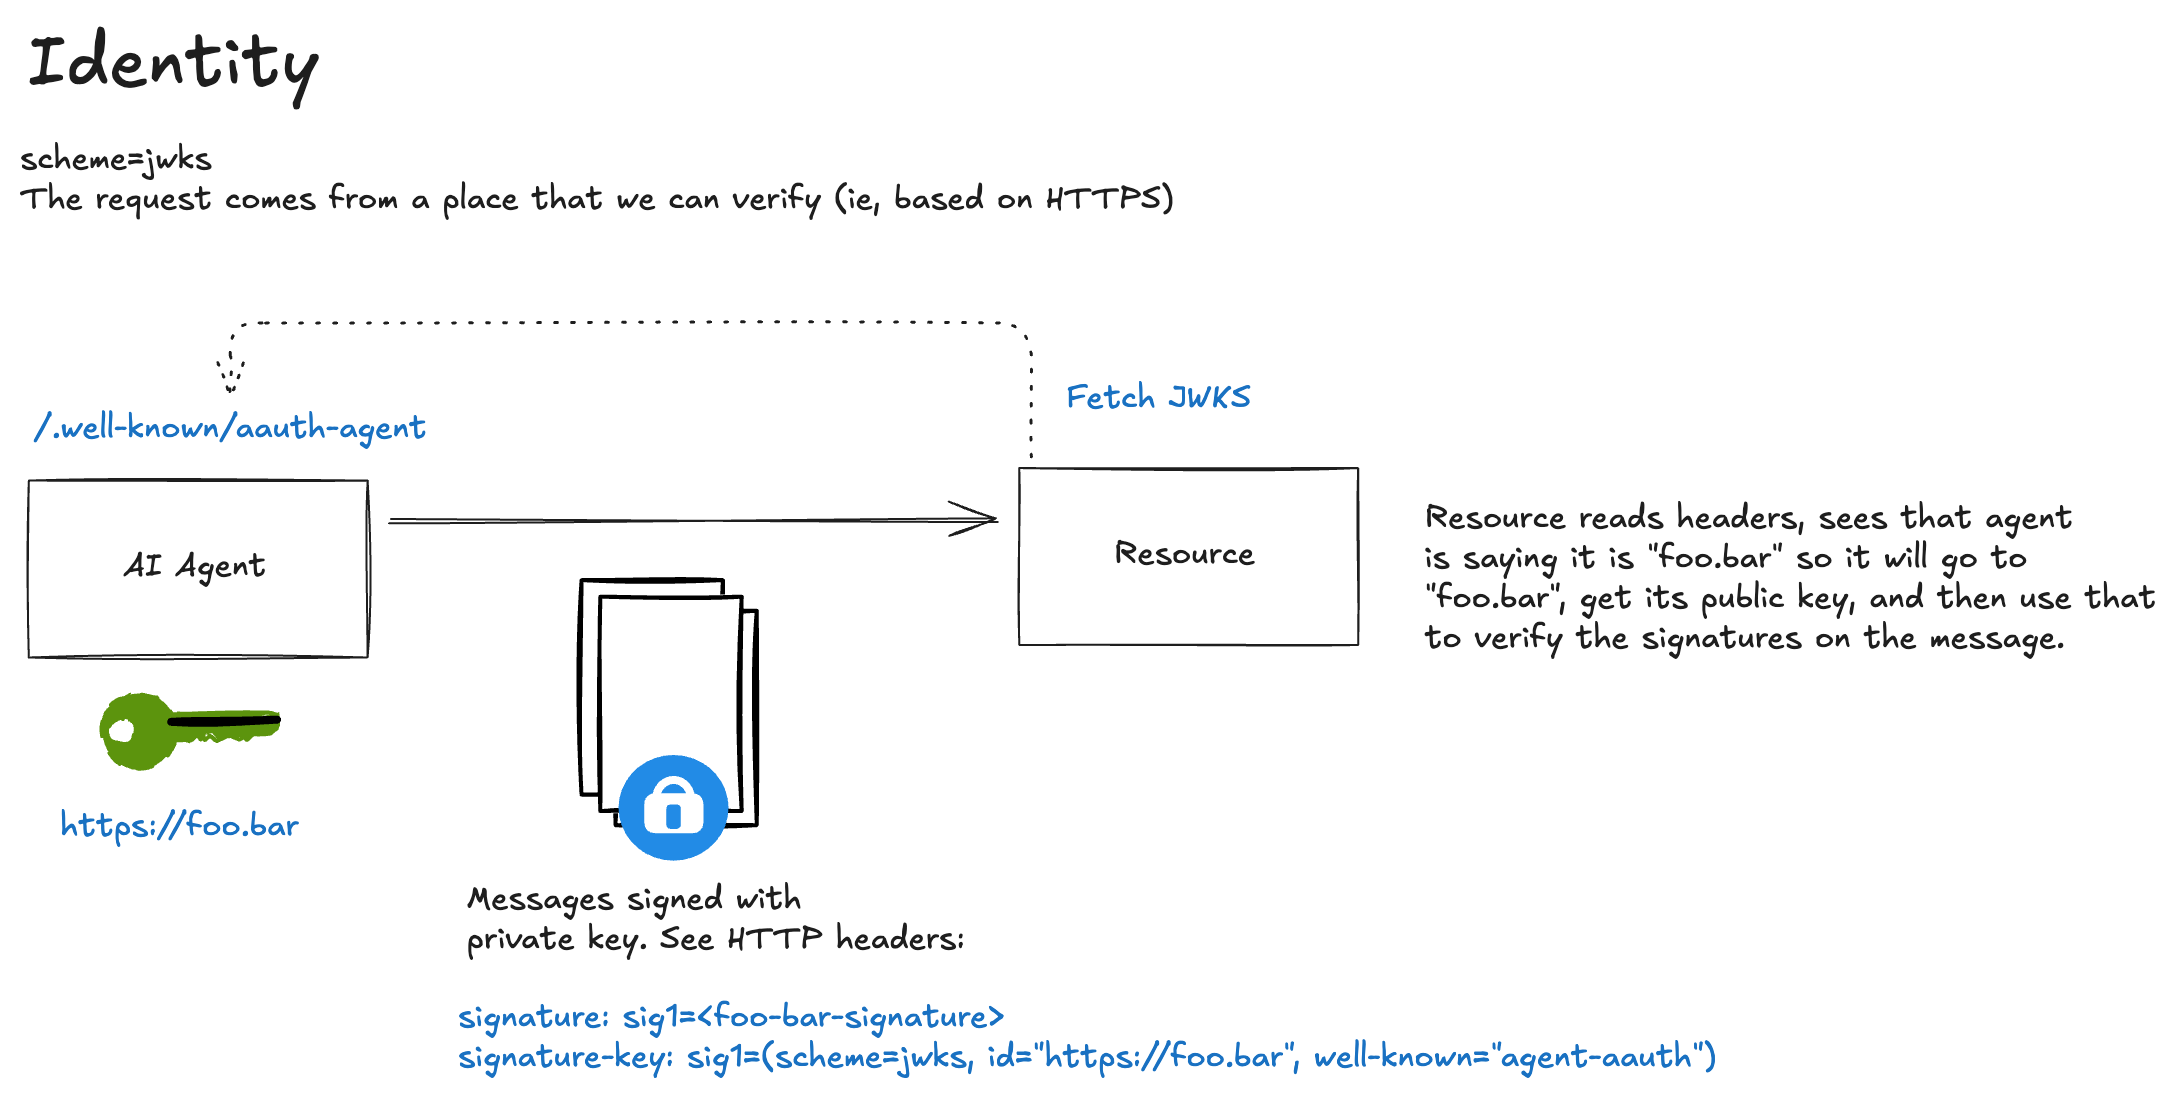
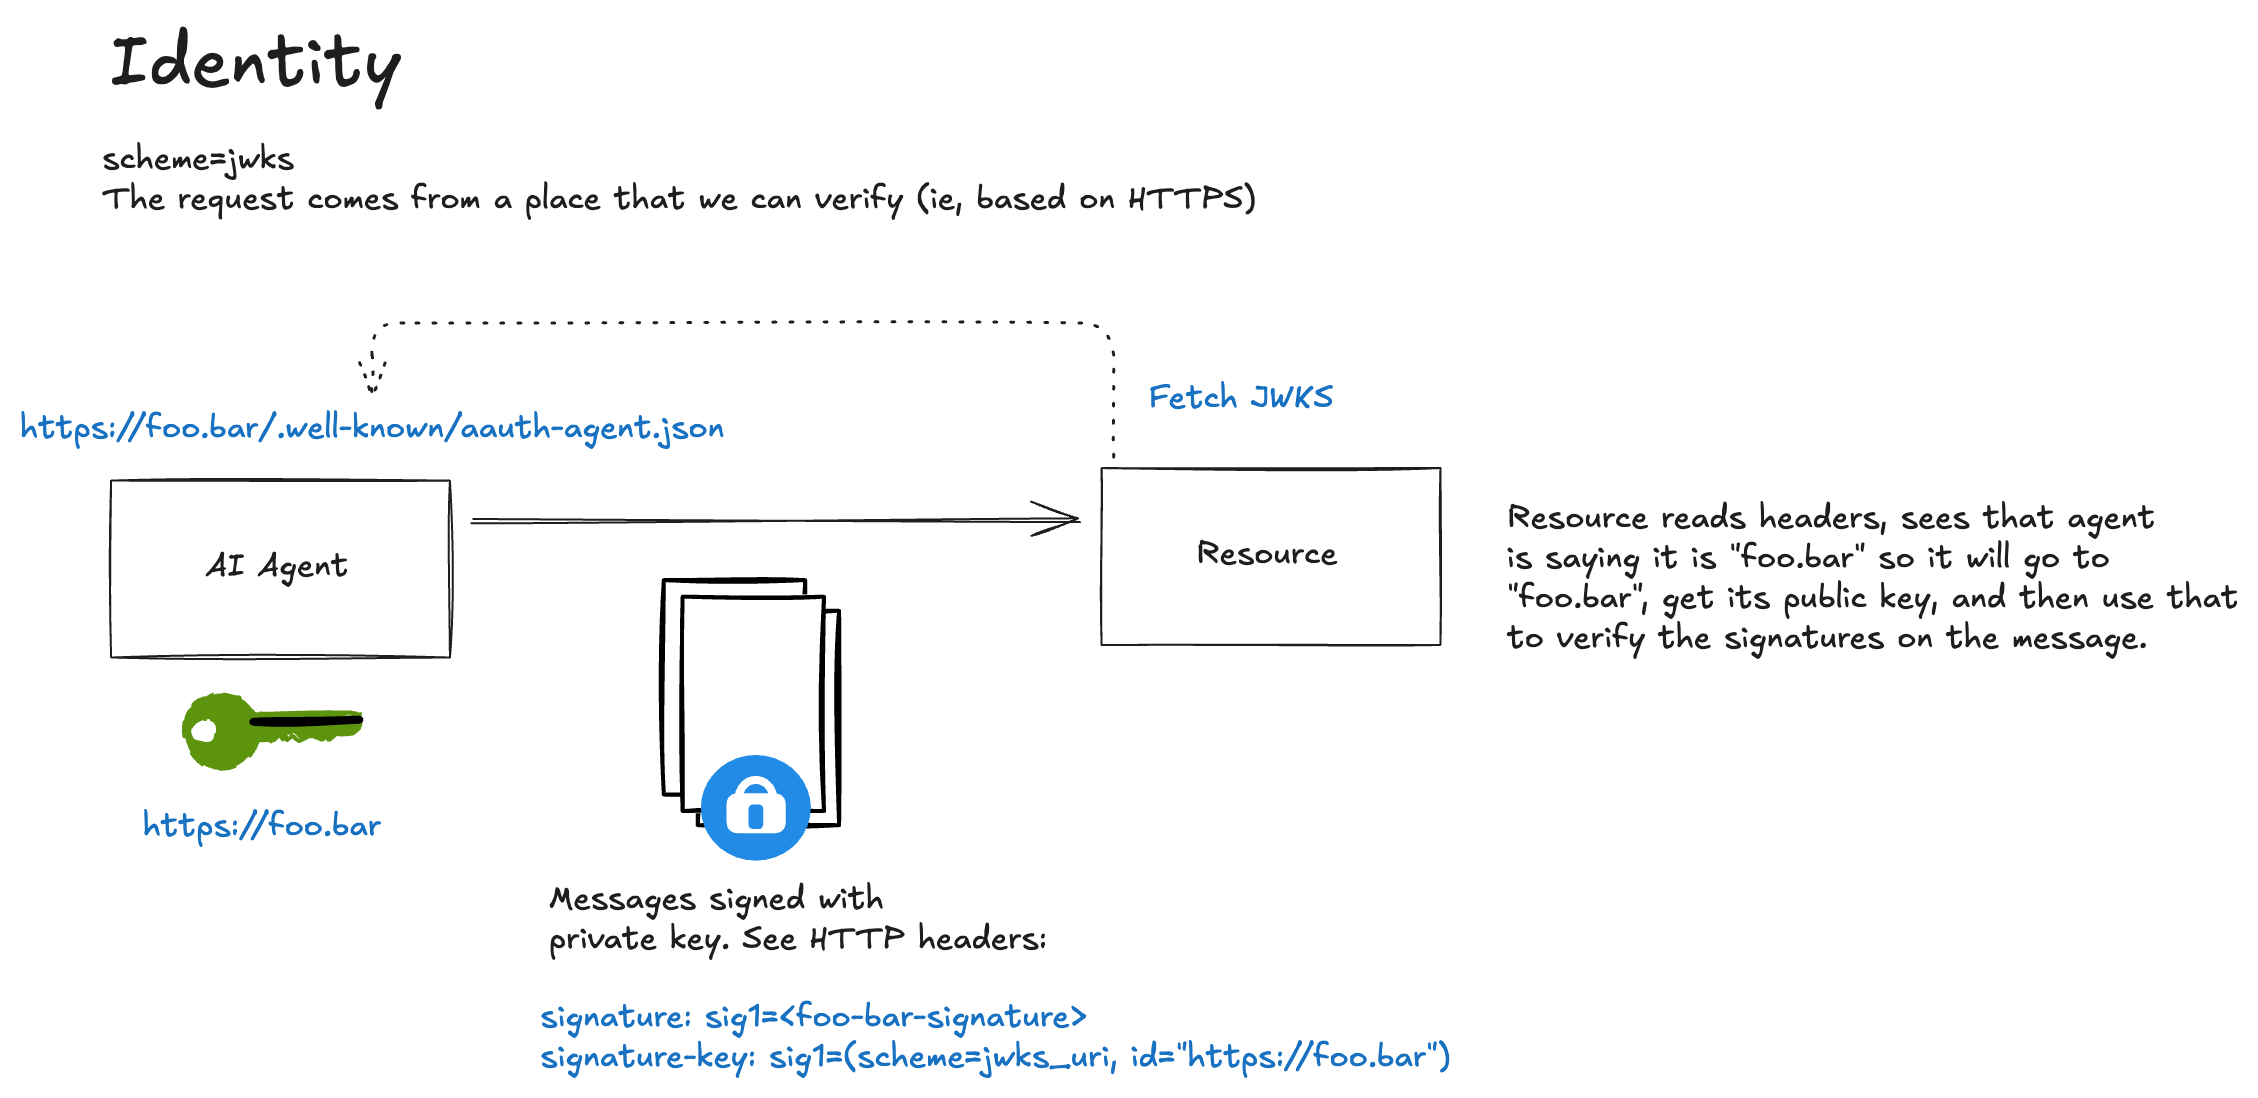
updatedf flow 2

diff --git a/docs/flow-02-jwks.md b/docs/flow-02-jwks.md
@@ -40,16 +40,16 @@ The **JSON Web Key Set (JWKS)** scheme requires agents to publish their public k
 - The agent controls the domain where keys are published
 - Organizational trust based on domain reputation
 
-In our sample flow, we see that when the agent makes a request to a resource, it sends:
+In the current demo, the resource exposes two endpoints independently: `/data-hwk` still accepts the pseudonymous HWK flow from phase 1, while `/data-jwks` requires identified access. When the agent calls the JWKS-protected endpoint, it sends:
 
 ```bash
 ================================================================================
 >>> AGENT REQUEST to https://important.resource.com/data-jwks
 ================================================================================
 GET https://important.resource.com/data-jwks HTTP/1.1
-Signature: sig1=:0O48KtRbtfpgIZdCVdPZkHQNzBCZmOnPjTDYW0JN4qET18p4toSEE7ZIZo1v5Hf7CZKPugAhiSkrWuNmekUvAQ:
-Signature-Input: sig1=("@method" "@authority" "@path" "signature-key");created=1768785796
-Signature-Key: sig1=(scheme=jwks id="https://agent.supply-chain.com" kid="key-1" well-known="aauth-agent")
+Signature: sig=:PeOsuu6w8egvbZ6rZGd0zYCLAkbUsFjYDGB8OTzX_LT_xc3jVl2ko4mFdluttWukieniGIa7kBDK37wgCj7kBw:
+Signature-Input: sig=("@method" "@authority" "@path" "signature-key");created=1774921760
+Signature-Key: sig=(scheme=jwks_uri id="https://agent.supply-chain.com" kid="key-1")
 ================================================================================
 ```
 
@@ -62,55 +62,56 @@ Resource sees:
 >>> RESOURCE REQUEST received
 ================================================================================
 GET /data-jwks HTTP/1.1
-Host: 127.0.0.1:8002
+Host: important.resource.com
 accept: */*
 accept-encoding: gzip, deflate
 connection: keep-alive
-host: 127.0.0.1:8002
-signature: sig1=:0O48KtRbtfpgIZdCVdPZkHQNzBCZmOnPjTDYW0JN4qET18p4toSEE7ZIZo1v5Hf7CZKPugAhiSkrWuNmekUvAQ:
-signature-input: sig1=("@method" "@authority" "@path" "signature-key");created=1768785796
-signature-key: sig1=(scheme=jwks id="https://agent.supply-chain.com" kid="key-1" well-known="aauth-agent")
+host: important.resource.com
+signature: sig=:PeOsuu6w8egvbZ6rZGd0zYCLAkbUsFjYDGB8OTzX_LT_xc3jVl2ko4mFdluttWukieniGIa7kBDK37wgCj7kBw:
+signature-input: sig=("@method" "@authority" "@path" "signature-key");created=1774921760
+signature-key: sig=(scheme=jwks_uri id="https://agent.supply-chain.com" kid="key-1")
 user-agent: python-httpx/0.28.1
 ================================================================================
 ```
 
 ### `Signature-Input`
 ```
-Signature-Input: sig1=("@method" "@authority" "@path" "signature-key");created=1768785796
+Signature-Input: sig=("@method" "@authority" "@path" "signature-key");created=1774921760
 ```
 
 This header declares *what was signed* and *how*:
 
 | Component | Meaning |
 |-----------|---------|
-| `sig1=` | The signature label, must match across all three headers |
+| `sig=` | The signature label, must match across all three headers |
 | `"@method"` | The HTTP method (`GET`) is covered by the signature |
 | `"@authority"` | The host (`important.resource.com`) is covered |
 | `"@path"` | The path (`/data-jwks`) is covered |
 | `"signature-key"` | **Critical:** The Signature-Key header itself is covered, preventing identity substitution attacks |
-| `created=1768785796` | Unix timestamp when the signature was created (resources typically reject signatures older than 60 seconds) |
+| `created=1774921760` | Unix timestamp when the signature was created (resources typically reject signatures older than 60 seconds) |
 
 ### `Signature`
 ```
-Signature: sig1=:0O48KtRbtfpgIZdCVdPZkHQNzBCZmOnPjTDYW0JN4qET18p4toSEE7ZIZo1v5Hf7CZKPugAhiSkrWuNmekUvAQ:
+Signature: sig=:PeOsuu6w8egvbZ6rZGd0zYCLAkbUsFjYDGB8OTzX_LT_xc3jVl2ko4mFdluttWukieniGIa7kBDK37wgCj7kBw:
 ```
 
 The actual cryptographic signature, base64-encoded between colons (RFC 9421 format).
 
 ### `Signature-Key`
 ```
-Signature-Key: sig1=(scheme=jwks id="https://agent.supply-chain.com" kid="key-1" well-known="aauth-agent")
+Signature-Key: sig=(scheme=jwks_uri id="https://agent.supply-chain.com" kid="key-1")
 ```
 
 | Parameter | Meaning |
 |-----------|---------|
-| `sig1=` | Must match the label in `Signature-Input` and `Signature` |
-| `scheme=jwks` | JWKS scheme—identified, discoverable public keys |
+| `sig=` | Must match the label in `Signature-Input` and `Signature` |
+| `scheme=jwks_uri` | JWKS-based identity scheme using discoverable metadata and a JWKS document |
 | `id="https://agent.supply-chain.com"` | The agent's identity URL (base for key discovery) |
 | `kid="key-1"` | Key ID to look up in the JWKS |
-| `well-known="aauth-agent"` | Which well-known path to use for metadata discovery |
 
 **Note:** The `id` parameter establishes the agent's identity claim. The resource will verify this claim by fetching keys from that domain.
+
+If the agent uses the wrong signature scheme on this endpoint, the resource responds with `AAuth: require=identity` to tell the agent it needs identified access rather than a pseudonymous HWK signature. We show that rejection later in this flow.
 
 ## Key Discovery Process
 
@@ -118,20 +119,21 @@ Before verifying the signature, the resource must fetch the agent's public key. 
 
 ### Step 1: Fetch Agent Metadata
 
-The resource constructs the well-known URL from the `id` and `well-known` parameters:
+The resource constructs the metadata URL from the `id` parameter:
 ```
-https://agent.supply-chain.com/.well-known/aauth-agent
+https://agent.supply-chain.com/.well-known/aauth-agent.json
 ```
 
 ```bash
-INFO:     127.0.0.1:58634 - "GET /.well-known/aauth-agent HTTP/1.1" 200 OK
+INFO:     127.0.0.1:64592 - "GET /.well-known/aauth-agent.json HTTP/1.1" 200 OK
 ```
 
 Response:
 ```json
 {
   "agent": "https://agent.supply-chain.com",
-  "jwks_uri": "https://agent.supply-chain.com/jwks.json"
+  "jwks_uri": "https://agent.supply-chain.com/jwks.json",
+  "clarification_supported": true
 }
 ```
 
@@ -144,7 +146,7 @@ The metadata document:
 The resource fetches the JWKS from the declared `jwks_uri`:
 
 ```bash
-INFO:     127.0.0.1:58635 - "GET /jwks.json HTTP/1.1" 200 OK
+INFO:     127.0.0.1:64593 - "GET /jwks.json HTTP/1.1" 200 OK
 ```
 
 Response:
@@ -154,7 +156,7 @@ Response:
     {
       "kty": "OKP",
       "crv": "Ed25519",
-      "x": "b-8CW2TppDJhevm4Db2QaKelJ1NLKQtZg1mwazqD9iY",
+      "x": "6-vu8FSaXUKtJjPYyiHIg1AILKIMI_ohgjvJsYZzaEk",
       "kid": "key-1"
     }
   ]
@@ -183,8 +185,8 @@ The resource reconstructs the exact bytes that were signed:
 "@method": GET
 "@authority": important.resource.com
 "@path": /data-jwks
-"signature-key": sig1=(scheme=jwks id="https://agent.supply-chain.com" kid="key-1" well-known="aauth-agent")
-"@signature-params": ("@method" "@authority" "@path" "signature-key");created=1768785796
+"signature-key": sig=(scheme=jwks_uri id="https://agent.supply-chain.com" kid="key-1")
+"@signature-params": ("@method" "@authority" "@path" "signature-key");created=1774921760
 ```
 
 ### 3. Signature Verification
@@ -203,11 +205,11 @@ In our example, if the resource determines this is a valid request and agent ide
 <<< RESOURCE RESPONSE
 ================================================================================
 HTTP/1.1 200
-content-length: 126
+content-length: 130
 content-type: application/json
 
-[Body (126 bytes)]
-{"message":"Access granted","data":"This is protected data","scheme":"jwks","method":"GET","agent_id":"https://agent.supply-chain.com"}
+[Body (130 bytes)]
+{"message":"Access granted","data":"This is protected data","scheme":"jwks_uri","method":"GET","agent_id":"https://agent.supply-chain.com"}
 ================================================================================
 ```
 
@@ -220,15 +222,36 @@ Agent gets response
 <<< AGENT RESPONSE from https://important.resource.com/data-jwks
 ================================================================================
 HTTP/1.1 200 OK
-content-length: 126
+content-length: 130
 content-type: application/json
-date: Mon, 19 Jan 2026 01:23:16 GMT
+date: Tue, 31 Mar 2026 01:49:19 GMT
 server: uvicorn
 
-[Body (126 bytes)]
-{"message":"Access granted","data":"This is protected data","scheme":"jwks","method":"GET","agent_id":"https://agent.supply-chain.com"}
+[Body (130 bytes)]
+{"message":"Access granted","data":"This is protected data","scheme":"jwks_uri","method":"GET","agent_id":"https://agent.supply-chain.com"}
 ================================================================================
 ```
+
+
+
+If identity is not included in the request, the resource rejects and propmts for the right auth with the `aauth` header:
+
+```bash
+================================================================================
+<<< AGENT RESPONSE from https://important.resource.com/data-jwks
+================================================================================
+HTTP/1.1 401 Unauthorized
+aauth: require=identity
+content-length: 52
+date: Tue, 31 Mar 2026 01:49:34 GMT
+server: uvicorn
+
+[Body (52 bytes)]
+Invalid signature scheme: expected jwks_uri, got hwk
+================================================================================
+```
+
+That `AAuth: require=identity` challenge tells the agent this endpoint needs a verifiable agent identity, not just an inline pseudonymous key.
 
 
 ## HWK vs JWKS: When to Use Each
@@ -236,7 +259,7 @@ server: uvicorn
 | Aspect | HWK (Pseudonymous) | JWKS (Identified) |
 |--------|-------------------|-------------------|
 | **Identity** | None—just a public key | Domain-bound identity URL |
-| **Key discovery** | Inline in request | Fetched from agent's domain |
+| **Key discovery** | Inline in request | Fetched from agent metadata and JWKS |
 | **Infrastructure** | None required | Must host well-known + JWKS endpoints |
 | **Trust model** | Track by key fingerprint | Trust by domain reputation |
 | **Use cases** | Crawlers, testing, privacy | Production agents, enterprise, APIs |

diff --git a/docs/index.md b/docs/index.md
@@ -9,7 +9,7 @@ title: Exploring AAuth for Agent Identity and Access Management (IAM)
 
 ## Intro: Digging in to AAuth Flows
 
-This set of resources is intended to help you understand the AAuth protocol in concrete detail. It is not a specification (see [Agent Auth](https://github.com/dickhardt/AAuth) for the evolution of that). This is specificatlly a more detailed review of the spec with examples (as a result of me implementing this). 
+This set of resources is intended to help you understand the AAuth protocol in concrete detail. It is not a specification (see [Agent Auth](https://github.com/dickhardt/AAuth)). This is specifically a more detailed review of the spec with examples (as a result of me implementing this). 
 
 This section walks through various flows with detailed Header/Payload examples so the sequence diagrams from the AAuth exploratory draft are illustrated concretely. 
 
@@ -25,7 +25,7 @@ The source code for this section can be found on GitHub: [https://github.com/chr
 
 ## 🎉 Full Working Demo with Keycloak and Agentgateway
 
-This set of resources walks you through set up and evaluation of a realistic AAuth implementation with Identity Provider (Keycloak), Agentgateway, and libraries to support AAuth in multiple languages (Java, Python, Rust). 
+This set of resources walks you through set up and evaluation of a realistic AAuth implementation with Identity Provider (Keycloak), [Agentgateway](https://github.com/agentgateway/agentgateway), and libraries to support AAuth in multiple languages (Java, Python, Rust). 
 
 ![](./images/demo-flow.png)
 
